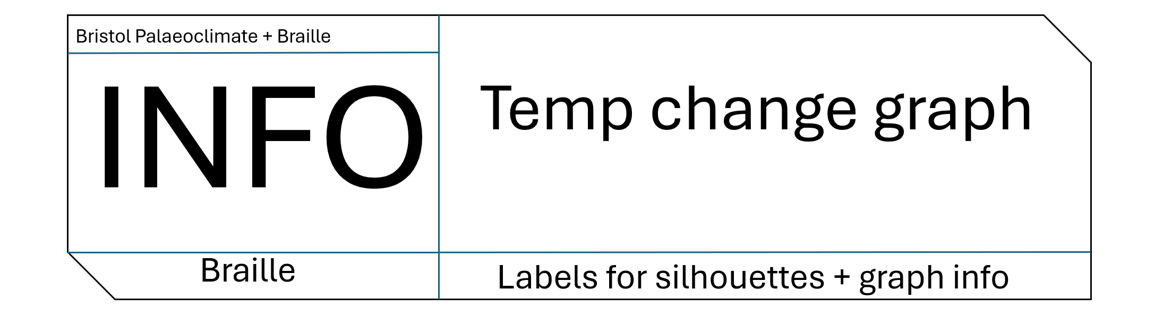
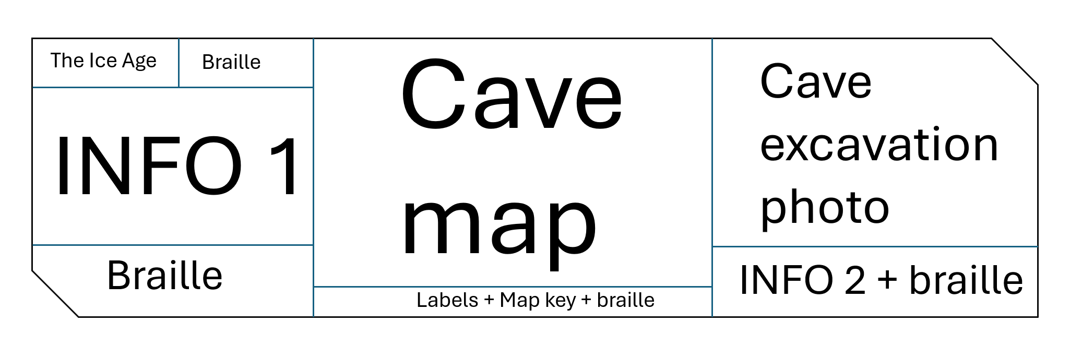
update images

diff --git a/index.html b/index.html
@@ -62,6 +62,22 @@
         color: #F7F7F5;
         opacity: 0.7;
     }
+
+    #overlay {
+        display: none;
+        position: fixed;
+        inset: 0;
+        background: rgba(0,0,0,0.9);
+        justify-content: center;
+        align-items: center;
+        cursor: pointer;
+    }
+
+    #overlay img {
+        max-width: 95%;
+        max-height: 95%;
+    }
+
 </style>
 </head>
 <body>
@@ -76,17 +92,28 @@
 
 <section class="plaque-section">
     <h2 class="plaque-title">Design 1</h2>
-    <img src="Picture2.png" alt="Plaque Design 1">
+    <img src="Picture1.png" alt="Plaque Design 1" onclick="openImage(this)">
 </section>
 
 <section class="plaque-section">
     <h2 class="plaque-title">Design 2</h2>
-    <img src="Picture2.png" alt="Plaque Design 2">
+    <img src="Picture2.png" alt="Plaque Design 1" onclick="openImage(this)">
 </section>
 
 <footer>
     Pleistocene Exhibit Redesign Project
 </footer>
+
+<script>
+function openImage(img) {
+    document.getElementById("fullImage").src = img.src;
+    document.getElementById("overlay").style.display = "flex";
+}
+
+function closeImage() {
+    document.getElementById("overlay").style.display = "none";
+}
+</script>
 
 </body>
 </html>
